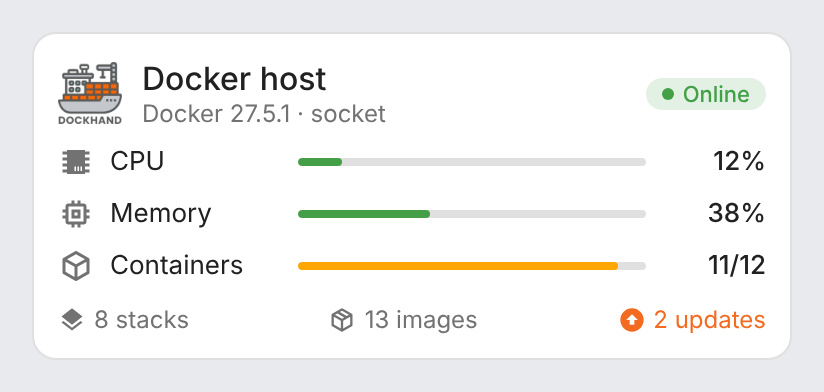
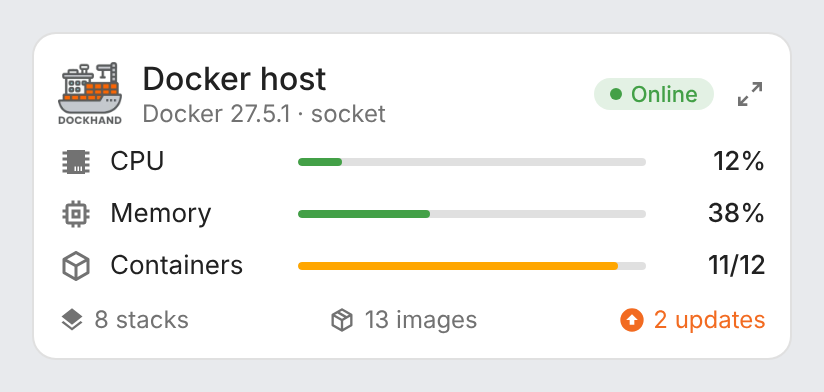
Mini card: detail button at the top right, switching to the full card
Claude-Session: https://claude.ai/code/session_01NW8HrjdUvTF3zwsaKKxQNw

Changed region(s): [[0.6978, 0.1837, 0.9405, 0.3061]]

diff --git a/src/dockhand-card.js b/src/dockhand-card.js
@@ -25,6 +25,9 @@ const ICONS = {
   power: "M16.56,5.44L15.11,6.89C16.84,7.94 18,9.83 18,12A6,6 0 0,1 12,18A6,6 0 0,1 6,12C6,9.83 7.16,7.94 8.88,6.88L7.44,5.44C5.36,6.88 4,9.28 4,12A8,8 0 0,0 12,20A8,8 0 0,0 20,12C20,9.28 18.64,6.88 16.56,5.44M13,3H11V13H13",
   git: "M2.6,10.59L8.38,4.8L10.07,6.5C9.83,7.35 10.22,8.28 11,8.73V14.27C10.4,14.61 10,15.26 10,16A2,2 0 0,0 12,18A2,2 0 0,0 14,16C14,15.26 13.6,14.61 13,14.27V9.41L15.07,11.5C15,11.65 15,11.82 15,12A2,2 0 0,0 17,14A2,2 0 0,0 19,12A2,2 0 0,0 17,10C16.82,10 16.65,10 16.5,10.07L13.93,7.5C14.19,6.57 13.71,5.55 12.78,5.16C12.35,5 11.9,4.96 11.5,5.07L9.8,3.38L10.59,2.6C11.37,1.81 12.63,1.81 13.41,2.6L21.4,10.59C22.19,11.37 22.19,12.63 21.4,13.41L13.41,21.4C12.63,22.19 11.37,22.19 10.59,21.4L2.6,13.41C1.81,12.63 1.81,11.37 2.6,10.59Z",
   alert: "M13 14H11V9H13M13 18H11V16H13M1 21H23L12 2L1 21Z",
+  // mdi:arrow-expand and mdi:arrow-collapse, the mini card's detail button.
+  expand: "M10,21V19H6.41L10.91,14.5L9.5,13.09L5,17.59V14H3V21H10M14.5,10.91L19,6.41V10H21V3H14V5H17.59L13.09,9.5L14.5,10.91Z",
+  collapse: "M19.5,3.09L15,7.59V4H13V11H20V9H16.41L20.91,4.5L19.5,3.09M4,13V15H7.59L3.09,19.5L4.5,20.91L9,16.41V20H11V13H4Z",
 };
 
 const STRINGS = {
@@ -60,6 +63,8 @@ const STRINGS = {
     state_restarting: "Restarting",
     state_created: "Created",
     state_dead: "Dead",
+    zoom_in: "Show the full card",
+    zoom_out: "Back to the compact view",
     // Editor
     environment: "Dockhand environment",
     title: "Title (optional, defaults to the environment name)",
@@ -74,6 +79,8 @@ const STRINGS = {
     expand_stacks: "Stacks list expanded by default",
     expand_containers: "Containers list expanded by default",
     show_updates: "Show pending updates",
+    zoom: "Detail button",
+    zoom_helper: "Switches the mini card to the full card and back",
     language: "Language",
     lang_auto: "Automatic",
   },
@@ -109,6 +116,8 @@ const STRINGS = {
     state_restarting: "Redémarrage",
     state_created: "Créé",
     state_dead: "Mort",
+    zoom_in: "Afficher la carte complète",
+    zoom_out: "Revenir à la vue compacte",
     environment: "Environnement Dockhand",
     title: "Titre (facultatif, nom de l'environnement par défaut)",
     show_logo: "Afficher le logo Dockhand",
@@ -122,6 +131,8 @@ const STRINGS = {
     expand_stacks: "Liste des stacks dépliée par défaut",
     expand_containers: "Liste des conteneurs dépliée par défaut",
     show_updates: "Afficher les mises à jour en attente",
+    zoom: "Bouton de détail",
+    zoom_helper: "Bascule la mini-carte en carte complète, et inversement",
     language: "Langue",
     lang_auto: "Automatique",
   },
@@ -352,7 +363,14 @@ const BASE_STYLE = `
   .name { font-size: 16px; font-weight: 500; line-height: 1.25; white-space: nowrap; overflow: hidden; text-overflow: ellipsis; }
   .sub { font-size: 12px; color: var(--secondary-text-color); white-space: nowrap; overflow: hidden; text-overflow: ellipsis; }
   .warning { padding: 16px; color: var(--dh-warn); }
+  .zoom { all: unset; flex: none; cursor: pointer; width: 24px; height: 24px; margin: -4px;
+          border-radius: 50%; display: grid; place-items: center; color: var(--secondary-text-color); }
+  .zoom .icon { width: 16px; height: 16px; }
+  .zoom:hover { background: color-mix(in srgb, var(--secondary-text-color) 16%, transparent); color: var(--primary-text-color); }
+  .zoom:focus-visible { outline: 2px solid var(--primary-color, #03a9f4); outline-offset: 1px; }
 `;
+// A click inside a dialog (more-info opened from the card, say) is not a click outside the card.
+const inDialog = (ev) => ev.composedPath().some((n) => ["ha-more-info-dialog", "ha-dialog", "dialog"].includes(n.localName));
 
 class DockhandBase extends HTMLElement {
   constructor() {
@@ -497,7 +515,13 @@ class DockhandBase extends HTMLElement {
               )}</span>`
             : ""
         }
+        ${this._zoomButton()}
       </div>`;
+  }
+
+  // Button at the far right of the header: only the mini card has one.
+  _zoomButton() {
+    return "";
   }
 
   _error(key) {
@@ -830,7 +854,9 @@ const MINI_STYLE = `
   .foot .upd { color: var(--dh-orange); }
 `;
 
-class DockhandMiniCard extends DockhandBase {
+// The mini card extends the full card: its detail button (top right, `zoom: false` removes it) switches it to the
+// full card's content, same configuration, and back; a click anywhere outside the card brings it back too.
+class DockhandMiniCard extends DockhandCard {
   static getConfigElement() {
     return document.createElement("dockhand-mini-card-editor");
   }
@@ -839,12 +865,52 @@ class DockhandMiniCard extends DockhandBase {
     return DockhandCard.getStubConfig(hass);
   }
 
+  constructor() {
+    super();
+    this._zoomed = false;
+    this.shadowRoot.addEventListener("click", (ev) => this._zoomClick(ev));
+    // A click outside the card, and not in a dialog opened from it, brings it back to the compact view.
+    this._onUnzoom = (ev) => {
+      if (this._zoomed && !ev.composedPath().includes(this) && !inDialog(ev)) this._setZoom(false);
+    };
+  }
+
+  connectedCallback() {
+    super.connectedCallback();
+    document.addEventListener("click", this._onUnzoom, true);
+  }
+
+  disconnectedCallback() {
+    super.disconnectedCallback();
+    document.removeEventListener("click", this._onUnzoom, true);
+  }
+
   getCardSize() {
-    return 3;
+    return this._zoomed ? super.getCardSize() : 3;
   }
 
   getGridOptions() {
-    return { columns: 6, min_columns: 6 };
+    return this._zoomed ? super.getGridOptions() : { columns: 6, min_columns: 6 };
+  }
+
+  _setZoom(zoomed) {
+    this._zoomed = zoomed;
+    this._update();
+  }
+
+  // A click on the detail button: never a tap on anything else of the card.
+  _zoomClick(ev) {
+    if (!ev.target?.closest?.(".zoom")) return;
+    ev.stopPropagation();
+    this._setZoom(!this._zoomed);
+    // Keyboard use (Enter / Space: no click count) keeps the focus on the button.
+    if (ev.detail === 0) this.shadowRoot.querySelector(".zoom")?.focus();
+  }
+
+  _zoomButton() {
+    if (this._config.zoom === false) return "";
+    const z = this._zoomed;
+    return `<button class="zoom" title="${esc(this._t(z ? "zoom_out" : "zoom_in"))}">${svgIcon(z ? ICONS.collapse : ICONS.expand)}</button>`;
   }
 
   _metric(id, icon, label, pct, display, cls) {
@@ -856,6 +922,7 @@ class DockhandMiniCard extends DockhandBase {
   }
 
   _render() {
+    if (this._zoomed) return super._render();
     const { env, error } = findEnv(this._hass, this._config);
     if (error) return this._error(error);
     const e = env.entities;
@@ -951,6 +1018,7 @@ class DockhandEditorBase extends HTMLElement {
     if (!this._form) {
       this._form = document.createElement("ha-form");
       this._form.computeLabel = (s) => t(this._hass, this._config, s.name);
+      this._form.computeHelper = (s) => STRINGS[lang(this._hass, this._config)][`${s.name}_helper`];
       this._form.addEventListener("value-changed", (ev) => {
         ev.stopPropagation();
         const config = { ...ev.detail.value };
@@ -990,7 +1058,10 @@ class DockhandCardEditor extends DockhandEditorBase {
 
 class DockhandMiniCardEditor extends DockhandEditorBase {
   static get toggles() {
-    return [["show_updates", true]];
+    return [
+      ["show_updates", true],
+      ["zoom", true],
+    ];
   }
 }
 

diff --git a/README.md b/README.md
@@ -29,6 +29,7 @@ The cards are built on top of the [Dockhand integration](https://github.com/raet
 - Start / stop and restart buttons for stacks and containers (with confirmation)
 - "Only items needing attention" mode: stopped, unhealthy or outdated first
 - Click any value to open its Home Assistant history (more-info dialog)
+- Detail button at the top right of the mini card: it switches to the full card and back; a click anywhere outside the card brings the compact view back
 - Visual editor in the dashboard UI for both cards (no YAML needed)
 - Light and dark mode, English and French
 - Single file, no external dependency, the Dockhand logo is embedded
@@ -105,6 +106,7 @@ title: Docker
 dockhand_url: http://192.168.1.10:3000
 show_logo: true
 show_updates: true
+zoom: true
 language: fr
 ```
 
@@ -125,6 +127,7 @@ language: fr
 | `expand_stacks` | full | `false` | Stacks list expanded when the card loads (click the section title to fold / unfold) |
 | `expand_containers` | full | `false` | Containers list expanded when the card loads (click the section title to fold / unfold) |
 | `show_updates` | mini | `true` | Pending updates in the footer |
+| `zoom` | mini | `true` | Detail button at the top right: switches to the full card and back (`false` removes it) |
 | `language` | both | Auto | Force language: `fr` or `en` (auto-detects from HA settings) |
 
 ## Screenshots
@@ -133,6 +136,7 @@ language: fr
 |---|---|
 | ![card](screenshots/card.png) | ![card dark](screenshots/card-dark.png) |
 | ![mini card](screenshots/mini-card.png) | ![mini card dark](screenshots/mini-card-dark.png) |
+| ![mini card zoomed in](screenshots/mini-card-zoom.png) | ![mini card zoomed in dark](screenshots/mini-card-zoom-dark.png) |
 
 Containers list:
 

diff --git a/CHANGELOG.md b/CHANGELOG.md
@@ -4,6 +4,10 @@
 
 ### Changes
 - The Dockhand logo in the header fits a 40 × 40 px box on the full card and a 32 × 32 px box on the mini card (was 40 px and 36 px high), like the header icon of the other cards.
+- Detail button at the top right of the mini card (after the status pill): it shows the full card with the same options (gauges, counters, stacks, containers), and a second click brings the compact view back. A click anywhere outside the card also folds it back; clicks on the card or in a dialog opened from it (more-info) do not. Zoomed in, the logo is the full card's 40 px. New `zoom` option (on by default, in the visual editor): `zoom: false` removes the button.
+
+### Maintenance
+- Tests for the detail button; light and dark screenshots of the zoomed-in mini card.
 
 ## 1.7.1
 
